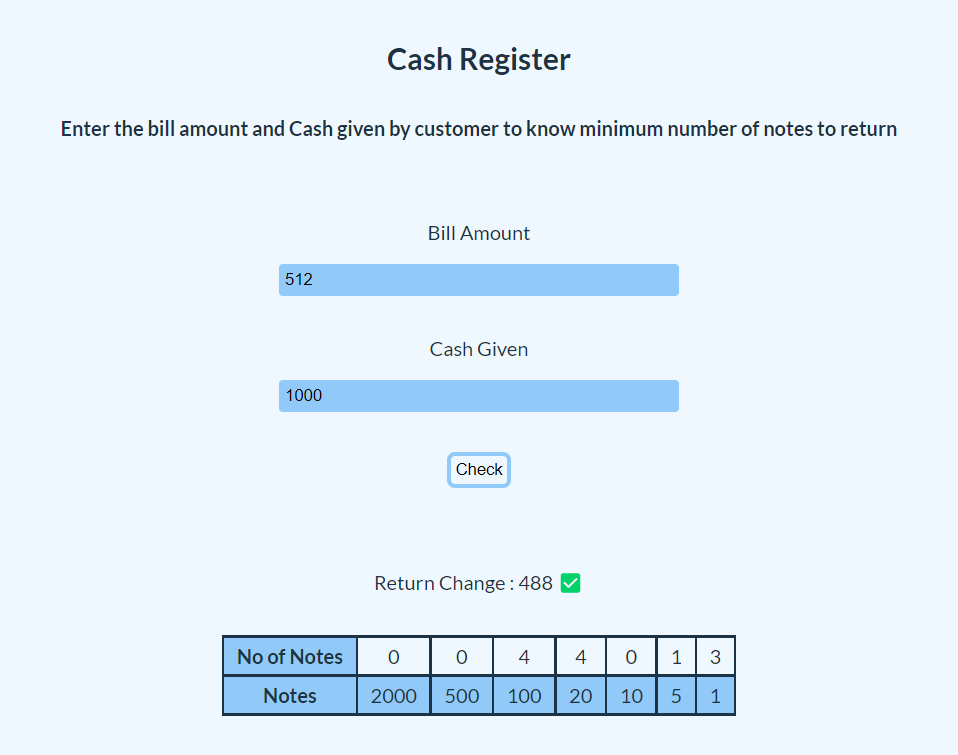
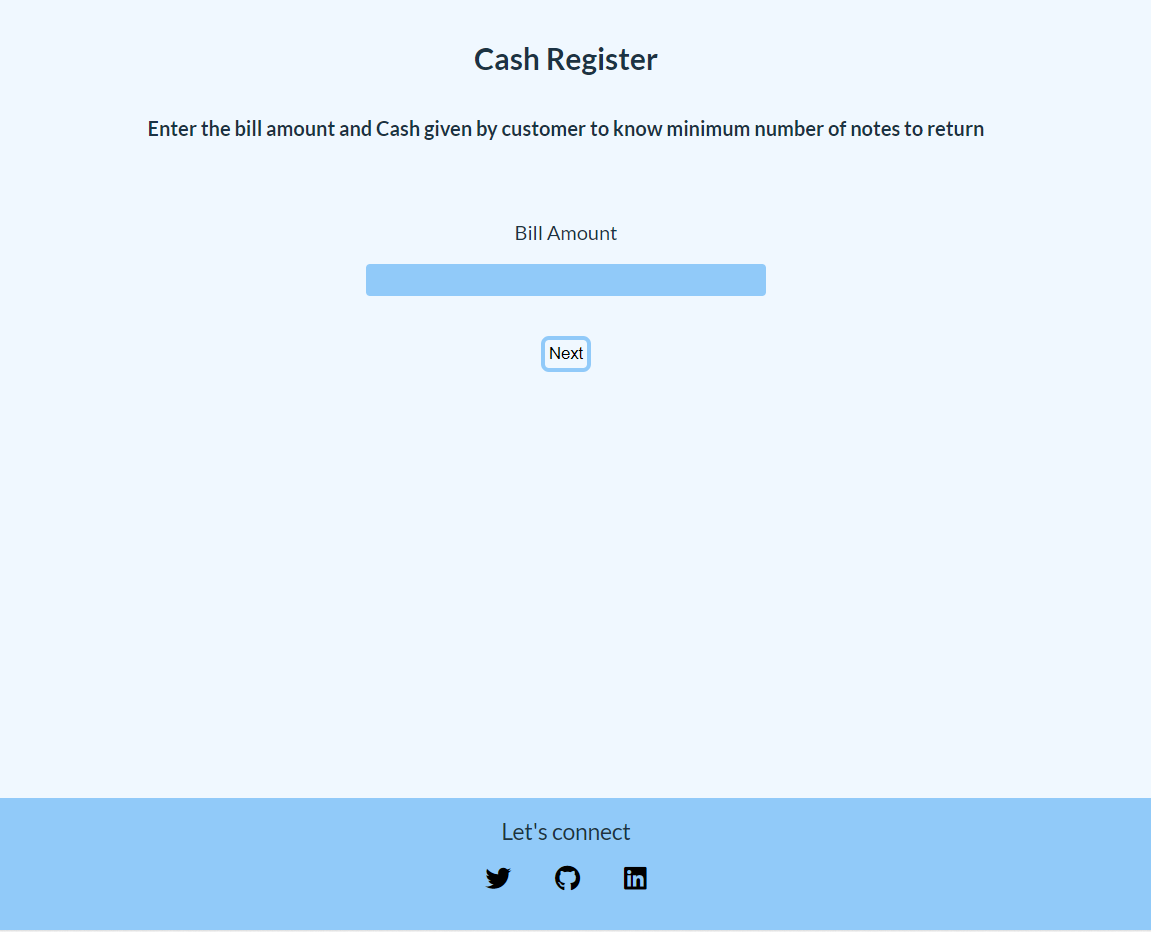
added footer

diff --git a/index.html b/index.html
@@ -4,6 +4,13 @@
     <meta charset="UTF-8" />
     <meta http-equiv="X-UA-Compatible" content="IE=edge" />
     <meta name="viewport" content="width=device-width, initial-scale=1.0" />
+    <link
+      rel="stylesheet"
+      href="https://cdnjs.cloudflare.com/ajax/libs/font-awesome/6.2.0/css/all.min.css"
+      integrity="sha512-xh6O/CkQoPOWDdYTDqeRdPCVd1SpvCA9XXcUnZS2FmJNp1coAFzvtCN9BmamE+4aHK8yyUHUSCcJHgXloTyT2A=="
+      crossorigin="anonymous"
+      referrerpolicy="no-referrer"
+    />
     <link rel="stylesheet" href="style.css" />
     <title>Cash Register</title>
   </head>
@@ -55,6 +62,28 @@
           <td>1</td>
         </tr>
       </table>
+      <footer class="footer">
+        <div class="footer-text">Let's connect</div>
+        <ul class="link-list">
+          <li>
+            <a href="https://twitter.com/Kaushal53362050" target="_blank"
+              ><i class="fa-brands fa-twitter"></i
+            ></a>
+          </li>
+          <li>
+            <a href="https://github.com/kaushal95" target="_blank"
+              ><i class="fa-brands fa-github"></i
+            ></a>
+          </li>
+          <li>
+            <a
+              href="https://www.linkedin.com/in/kaushal-kumar-019952170"
+              target="_blank"
+              ><i class="fa-brands fa-linkedin"></i
+            ></a>
+          </li>
+        </ul>
+      </footer>
     </main>
 
     <script src="/index.js" type="text/javascript"></script>

diff --git a/style.css b/style.css
@@ -12,6 +12,7 @@ html *{
 }
 body{
     font-family: 'Lato', sans-serif;
+    background-color: var(--primary-clr);
 }
 main{
     display: flex;
@@ -106,7 +107,71 @@ button{
     margin: 0 auto;
     margin-top: 2rem;
 }
+button:hover {
+    background-color: var(--secondary-clr);
+    color: var(--text-clr);
+    border-color: white;
+    transform: scale(1.2);
+}
 #error-msg{
     color: red;
     font-weight: 700;
+}
+
+/* footer */
+
+/* footer */
+.footer,
+.quiz-footer {
+    overflow: hidden;
+    margin: 0 auto;
+    background-color: var(--secondary-clr);
+    color: var(--text-clr);
+    width: 100vw;
+    text-align: center;
+    /* color: black; */
+    padding: 1rem;
+}
+
+.footer {
+    position: fixed;
+    bottom: 0px;
+    left: 50%;
+    transform: translate(-50%);
+
+}
+
+footer .quiz-footer {
+    overflow: hidden;
+    margin: 0 auto;
+    background-color: var(--primary-clr);
+    color: black;
+    width: 100vw;
+    text-align: center;
+}
+
+footer .link-list {
+    text-align: center;
+    margin: 1rem 0;
+    list-style-type: none;
+    margin: 1rem auto;
+}
+
+footer .link-list li {
+    display: inline;
+    padding: 1rem;
+}
+
+footer .footer-text {
+    /* font-weight: bold; */
+    font-size: large;
+}
+
+footer li a i {
+    color: black;
+    font-size: 1.3rem;
+}
+
+footer li a i:hover {
+    transform: scale(1.5);
 }
